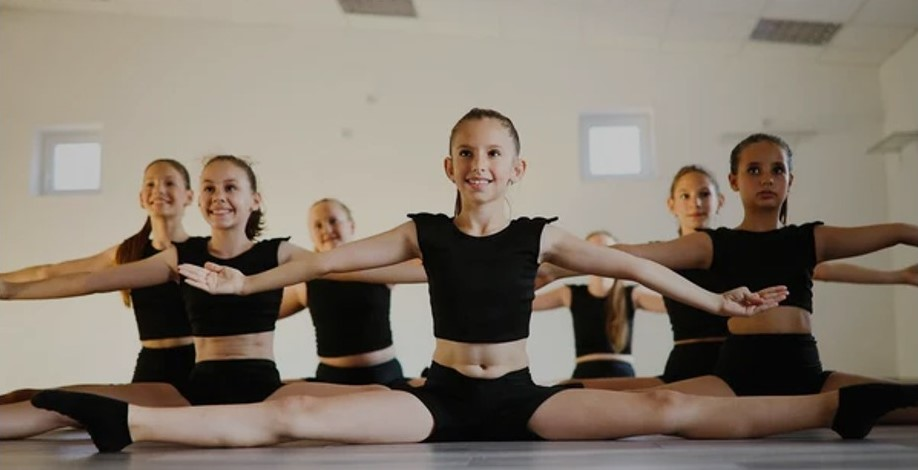
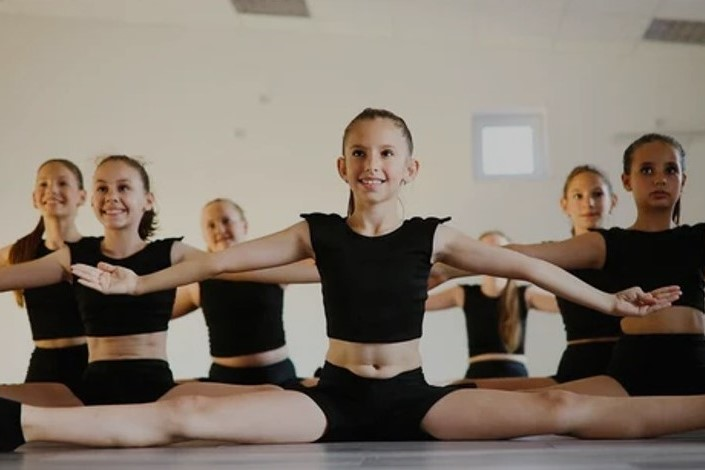
feat : cards h-100

diff --git a/index.html b/index.html
@@ -223,7 +223,7 @@
 
                 <!-- POZOOR NEMAZZZZZ !!!!! -->
                 <!-- <div class="portfolio col-lg-4 col-sm-6 mb-4">
-                  <div class="card mb-4 shadow-sm">
+                  <div class="card mb-4 h-100">
                     <a class="portfolio-link">
                       <div class="portfolio-hover">
                         <div class="portfolio-hover-content">
@@ -251,7 +251,7 @@
 
                 <!-- BABY DANCY -->
                 <div class="portfolio col-lg-4 col-sm-6 mb-4">
-                  <div class="card mb-4 shadow-sm">
+                  <div class="card mb-4 h-100">
                     <div class="portfolio-hover">
                       <div class="portfolio-hover-content">
                         <img  class="fa-plus" aria-hidden="true" focusable="false" data-prefix="fas" data-icon="plus" src="images/SVG/plus.svg" onclick="openPonukaBig('BABYDANCY')">
@@ -271,7 +271,7 @@
 
                 <!-- MINI DANCY -->
                 <div class="portfolio col-lg-4 col-sm-6 mb-4">
-                  <div class="card mb-4 shadow-sm">
+                  <div class="card mb-4 h-100">
                     <div class="portfolio-hover">
                       <div class="portfolio-hover-content">
                         <img  class="fa-plus" aria-hidden="true" focusable="false" data-prefix="fas" data-icon="plus" src="images/SVG/plus.svg" onclick="openPonukaBig('MINIDANCY')">
@@ -291,7 +291,7 @@
 
                 <!--  GYMNASTIKA -->
                 <div class="portfolio col-lg-4 col-sm-6 mb-4">
-                  <div class="card mb-4 shadow-sm">
+                  <div class="card mb-4 h-100">
                     <div class="portfolio-hover">
                       <div class="portfolio-hover-content">
                         <img  class="fa-plus" aria-hidden="true" focusable="false" data-prefix="fas" data-icon="plus" src="images/SVG/plus.svg" onclick="openPonukaBig('GYMNASTIKA')">
@@ -313,7 +313,7 @@
 
                 <!-- TEAM KIDS -->
                 <div class="portfolio col-lg-4 col-sm-6 mb-4">
-                  <div class="card mb-4 shadow-sm">
+                  <div class="card mb-4 h-100">
                     <div class="portfolio-hover">
                       <div class="portfolio-hover-content">
                         <img  class="fa-plus" aria-hidden="true" focusable="false" data-prefix="fas" data-icon="plus" src="images/SVG/plus.svg" onclick="openPonukaBig('TEAMKIDS')">
@@ -334,7 +334,7 @@
 
                 <!-- TEAM TEENS -->
                 <div class="portfolio col-lg-4 col-sm-6 mb-4">
-                  <div class="card mb-4 shadow-sm">
+                  <div class="card mb-4 h-100">
                     <div class="portfolio-hover">
                       <div class="portfolio-hover-content">
                         <img  class="fa-plus" aria-hidden="true" focusable="false" data-prefix="fas" data-icon="plus" src="images/SVG/plus.svg" onclick="openPonukaBig('TEAMTEENS')">
@@ -357,7 +357,7 @@
 
                 <!-- MOMMY SHAPER -->
                 <div class="portfolio col-lg-4 col-sm-6 mb-4">
-                  <div class="card mb-4 shadow-sm">
+                  <div class="card mb-4 h-100">
                     <div class="portfolio-hover">
                       <div class="portfolio-hover-content">
                         <img  class="fa-plus" aria-hidden="true" focusable="false" data-prefix="fas" data-icon="plus" src="images/SVG/plus.svg" onclick="openPonukaBig('MOMMYSHAPER')">

diff --git a/CSS/MYcss.css b/CSS/MYcss.css
@@ -30,31 +30,13 @@ body {
 }
 
 .card-img-top {
-    /* width: 100%; */
-    /* height: auto; */
-    /* max-height: 400px; */
-    /* object-fit: cover; */
-
     /* POKUSSS */
-    /* aspect-ratio: 16 / 9; 
-    min-width: 320px;
-    min-height: 180px; */
-
-     /* POKUSSS */
-     aspect-ratio: 4 / 3; 
-     min-width: 160px;
-     min-height: 120px;
-     border-radius: 10px 10px 0 0;
-
+    aspect-ratio: 3 / 2; 
+    /* min-width: 160px;
+    min-height: 120px; */
+    width: 100%;
+    border-radius: 10px 10px 0 0;
 }
-
-/* Fallback for older browsers that don't support aspect-ratio */
-.card-img-top::before {
-    content: "";
-    display: block;
-    padding-top: 75%; 
-}
-
 
 
 .dropdown-item:hover{
